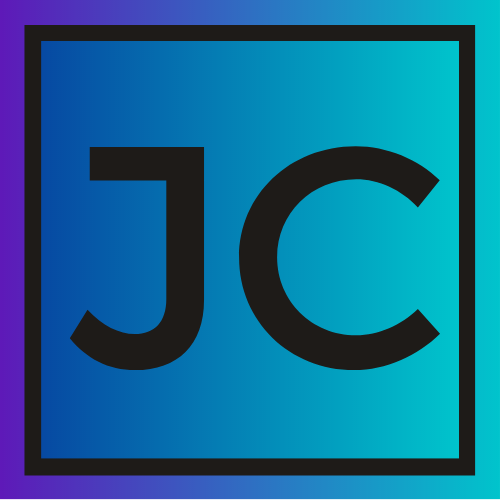
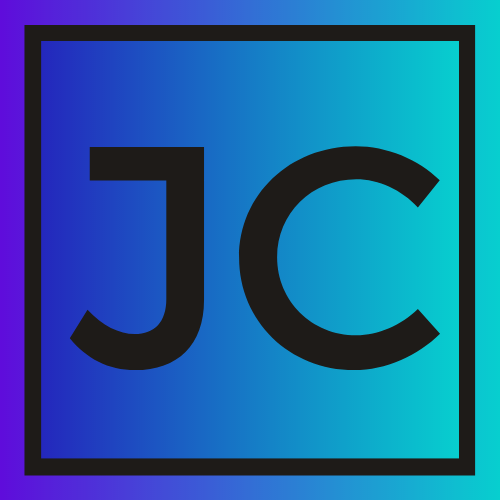
desktop done

Changed region(s): [[0.0, 0.0, 1.0, 1.0]]

diff --git a/src/css/main.css b/src/css/main.css
@@ -346,7 +346,7 @@ input {
   height: 50rem;
 }
 
-.hero__image-ctr {
+.hero__wrapper {
   display: -moz-flex;
   display: -ms-flex;
   display: flex;
@@ -359,31 +359,42 @@ input {
   justify-content: center;
   align-items: center;
   flex: 50%;
+}
+
+.hero__image-ctr {
+  display: -moz-flex;
+  display: -ms-flex;
+  display: flex;
+  -webkit-box-flex-direction: row;
+  -moz-box-flex-direction: row;
+  flex-direction: row;
+  -webkit-box-justify-content: center;
+  -moz-box-justify-content: center;
+  -ms-justify-content: center;
+  justify-content: center;
   position: relative;
 }
 
 .hero__image-ctr img {
-  margin-left: 6.25rem;
-  height: 37.5rem;
-  width: 37.5rem;
+  height: 40.625rem;
+  width: 40.625rem;
   object-fit: cover;
 }
 
 .hero__image-ctr::before, .hero__image-ctr::after {
-  background-image: linear-gradient(-180deg, #090C9B 0%, #944dff 97%);
+  background-image: linear-gradient(-180deg, #5F0CDB 0%, #524e4b 97%);
   content: '';
-  margin-left: 6.25rem;
   position: absolute;
   transition: all .2s;
   transition-delay: .2s;
   transform: translateY(0px) translateX(0px);
-  width: 37.5rem;
-  height: 37.5rem;
+  width: 40.625rem;
+  height: 40.625rem;
   z-index: -1;
 }
 
 .hero__image-ctr::after {
-  background-image: linear-gradient(0deg, #524e4b 0%, #FFAE3D 97%);
+  background-image: linear-gradient(0deg, #524e4b 0%, #07CFCF 97%);
 }
 
 .hero__image-ctr:hover::before {
@@ -408,6 +419,7 @@ input {
   -ms-justify-content: space-evenly;
   justify-content: space-evenly;
   flex: 50%;
+  margin-left: 6.25rem;
 }
 
 .hero__bullet-ctr {
@@ -434,10 +446,6 @@ input {
   font-family: "Big Shoulders Display", cursive;
   font-size: 2.5rem;
   margin-top: -6.25rem;
-}
-
-.hero__text:hover {
-  animation: hoverPop 2s infinite;
 }
 
 @keyframes slick-hover {
@@ -565,7 +573,7 @@ input {
 
 .skills__title-ctr {
   flex: 50%;
-  margin-left: 12.5rem;
+  padding-left: 12.5rem;
   align-self: center;
 }
 
@@ -605,12 +613,13 @@ input {
   flex: 50%;
   flex-wrap: wrap;
   align-items: baseline;
+  margin-right: 12.5rem;
 }
 
 .skills__card-ctr img {
   width: 12.5rem;
   height: 12.5rem;
-  margin: 3.125rem;
+  margin: 3.125rem 4.375rem;
 }
 
 .contact {
@@ -703,6 +712,7 @@ input {
 .contact .form__submit {
   width: 9.375rem;
   height: 3.125rem;
+  font-size: 1.25rem;
   margin-top: 1.875rem;
   border: none;
   background-color: #944dff;
@@ -789,7 +799,7 @@ input {
   height: 100%;
   top: 0;
   left: 0;
-  background: rgba(0, 0, 0, 0.6);
+  background: rgba(148, 77, 255, 0.4);
   opacity: 0;
   transition: all 0.5s;
   -webkit-transition: all 0.5s;

diff --git a/src/scss/_hero.scss b/src/scss/_hero.scss
@@ -4,33 +4,37 @@
   color: $primary-text-color;
   height: em(800);
 
-  &__image-ctr {
+  &__wrapper {
     @include flexbox(row, center);
     align-items: center;
     flex: 50%;
+  }
+
+  &__image-ctr {
+    @include flexbox(row, center);
     position: relative;
+
     img {
-      margin-left: em(100);
-      height: em(600);
-      width:em(600);
+      height: em(650);
+      width: em(650);
       object-fit: cover;
     }
+
     &::before,
     &::after {
-      background-image: linear-gradient(-180deg, #090C9B 0%, #944dff 97%);
+      background-image: linear-gradient(-180deg, #5F0CDB 0%, #524e4b 97%);
       content: '';
-      margin-left: em(100);
       position: absolute;
       transition: all .2s;
       transition-delay: .2s;
       transform: translateY(0px) translateX(0px);
-      width: em(600);
-      height:em(600);
+      width: em(650);
+      height: em(650);
       z-index: -1;
     }
 
     &::after {
-      background-image: linear-gradient(0deg, #524e4b 0%, #FFAE3D 97%);
+      background-image: linear-gradient(0deg, #524e4b 0%, #07CFCF 97%);
     }
 
     &:hover {
@@ -50,6 +54,7 @@
   &__text-ctr {
     @include flexbox(column, space-evenly);
     flex: 50%;
+    margin-left: em(100);
   }
 
   &__bullet-ctr {
@@ -68,11 +73,10 @@
     font-family: $hero-text-font;
     font-size: em(40);
     margin-top: em(-100);
-    &:hover{
-      animation: hoverPop 2s infinite;
-    }
+
   }
 }
+
 @keyframes slick-hover {
   0% {
     transform: translateY(20px) translateX(20px)

diff --git a/src/components/Hero/index.jsx b/src/components/Hero/index.jsx
@@ -3,26 +3,28 @@ import Fade from "react-reveal/Fade";
 
 import HeroImage from "..//../assets/hero.png";
 const Hero = () => {
-
   return (
     <section className="hero">
       <Fade left>
-      <div className="hero__image-ctr">
-        <img src={HeroImage} />
-      </div>
+        <div className="hero__wrapper">
+          <div className="hero__image-ctr">
+            <img src={HeroImage} />
+          </div>
+        </div>
       </Fade>
       <div className="hero__text-ctr">
         <Fade right>
-        <div className="hero__bullet-ctr">
-          <h2 className="hero__bullets">Developer</h2>
-          <h2 className="hero__bullets">Designer</h2>
-          <h2 className="hero__bullets">Problem-Solver</h2>
-        </div>
+          <div className="hero__bullet-ctr">
+            <h2 className="hero__bullets">Developer</h2>
+            <h2 className="hero__bullets">Designer</h2>
+            <h2 className="hero__bullets">Problem-Solver</h2>
+          </div>
         </Fade>
         <Fade bottom>
           <p className="hero__text">
-          Bringing Your Ideas to Life,<br/> Digitally.
-        </p>
+            Bringing Your Ideas to Life,
+            <br /> Digitally.
+          </p>
         </Fade>
       </div>
     </section>

diff --git a/src/scss/_skills.scss b/src/scss/_skills.scss
@@ -8,7 +8,7 @@
 
   &__title-ctr {
     flex: 50%;
-    margin-left: em(200);
+    padding-left: em(200);
     align-self: center;
 
     li {
@@ -39,11 +39,11 @@
     flex: 50%;
     flex-wrap: wrap;
     align-items: baseline;
-    // padding: em(-40)
+    margin-right:em(200);
 img{
   width: em(200);
   height:em(200);
-  margin: em(50)
+  margin: em(50) em(70);
 }
   }
 }

diff --git a/src/scss/_project.scss b/src/scss/_project.scss
@@ -18,7 +18,7 @@
     height: 100%;
     top: 0;
     left: 0;
-    background: rgba(0, 0, 0, 0.6);
+    background: rgba(148, 77, 255, 0.4);
     opacity: 0;
     transition: all 0.5s;
     -webkit-transition: all 0.5s;

diff --git a/src/scss/_contacts.scss b/src/scss/_contacts.scss
@@ -59,6 +59,7 @@
     &__submit {
       width: em(150);
       height: em(50);
+      font-size: em(20);
       margin-top: em(30);
       border: none;
       background-color: $info-title-text-color;
